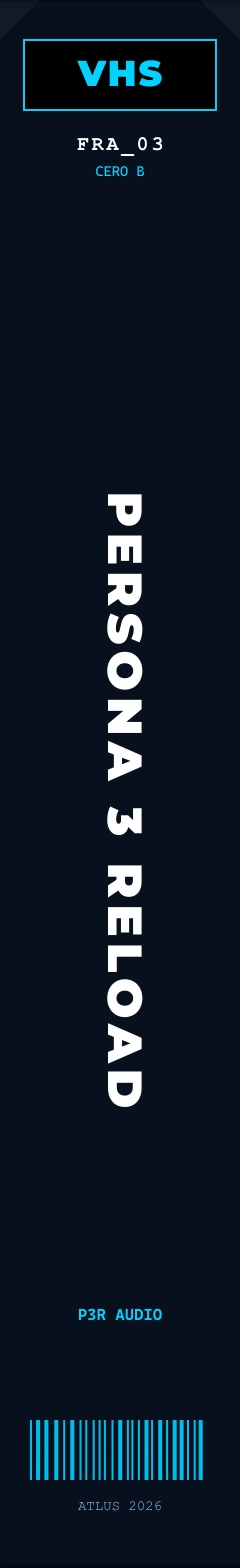
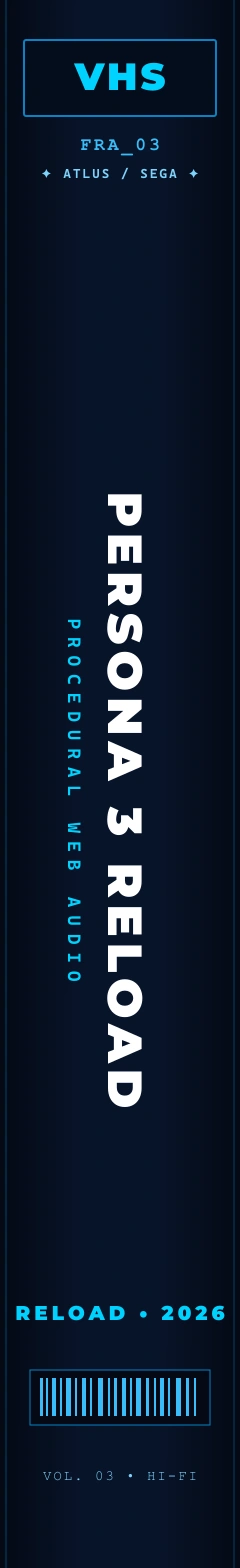
feat: apply user bespoke Persona 3 Reload retro VHS poster and matching spine

diff --git a/src/data/tapes.ts b/src/data/tapes.ts
@@ -287,9 +287,9 @@ export const TAPE_PROJECTS: TapeProject[] = [
       "Cinematic game-console developer portfolio inspired by Persona 3 Reload, featuring procedural Web Audio synthesis, 1080p character loop videos, and zero-scroll canvas navigation.",
     story:
       "Acoustic feedback engine using native Web Audio API oscillators and gain nodes (avoiding bulky sound MP3 assets) while providing zero-latency acoustic clicks, thuds, and menu swooshes. Navigation is driven by a finite state machine mimicking console controller inputs.",
-    color: "#17202e",
+    color: "#0c1936",
     wearSeed: 200607,
-    image: "/projects/Persona.png",
+    image: "/projects/Retro VHS Persona Poster.png",
     liveUrl: "https://persona.ferrelrashadakeyla2014.workers.dev/",
     githubUrl: "https://github.com/FerrelHD/Persona",
     metrics: [
